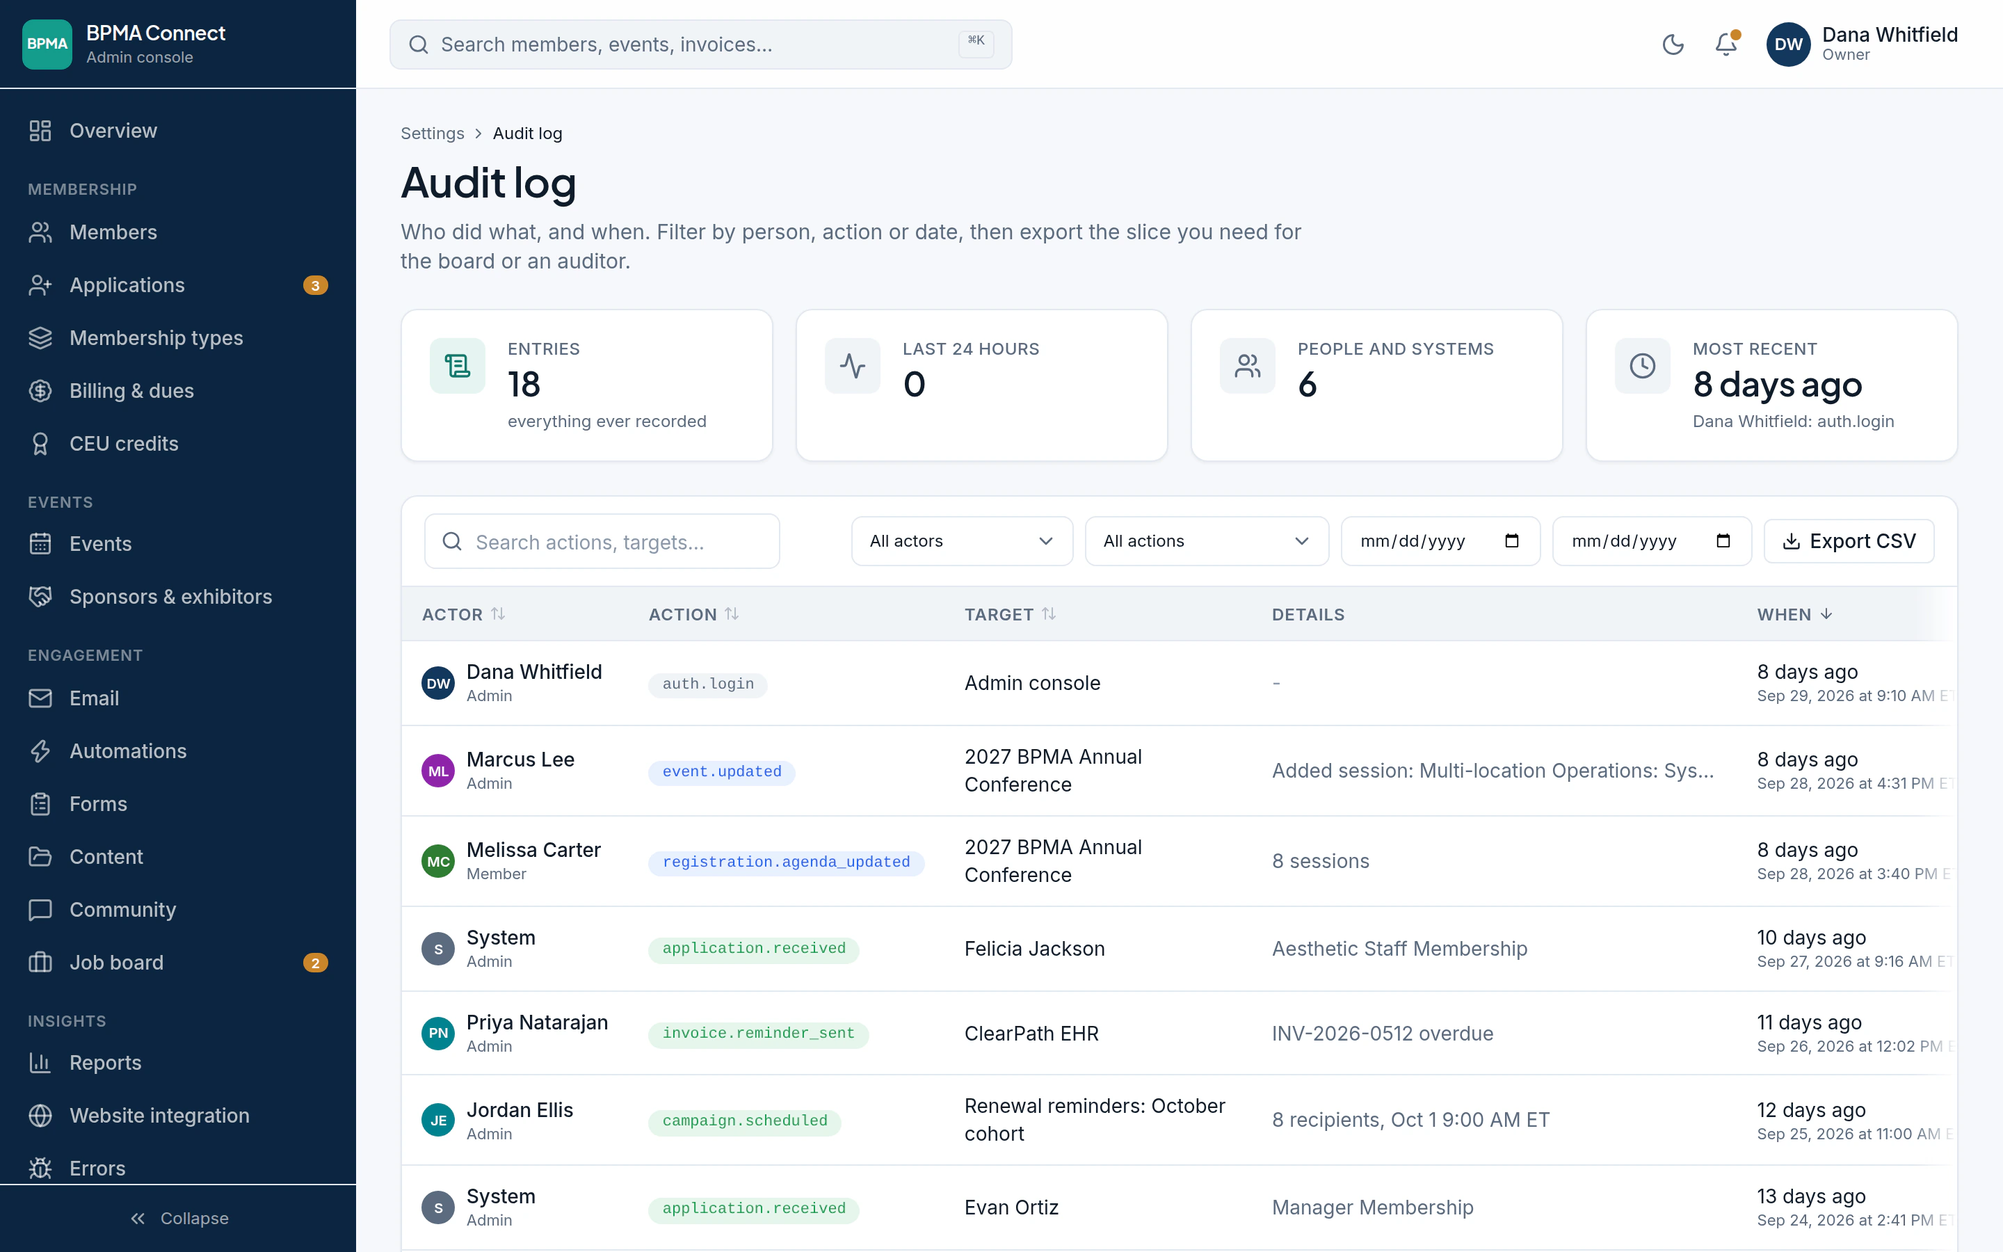
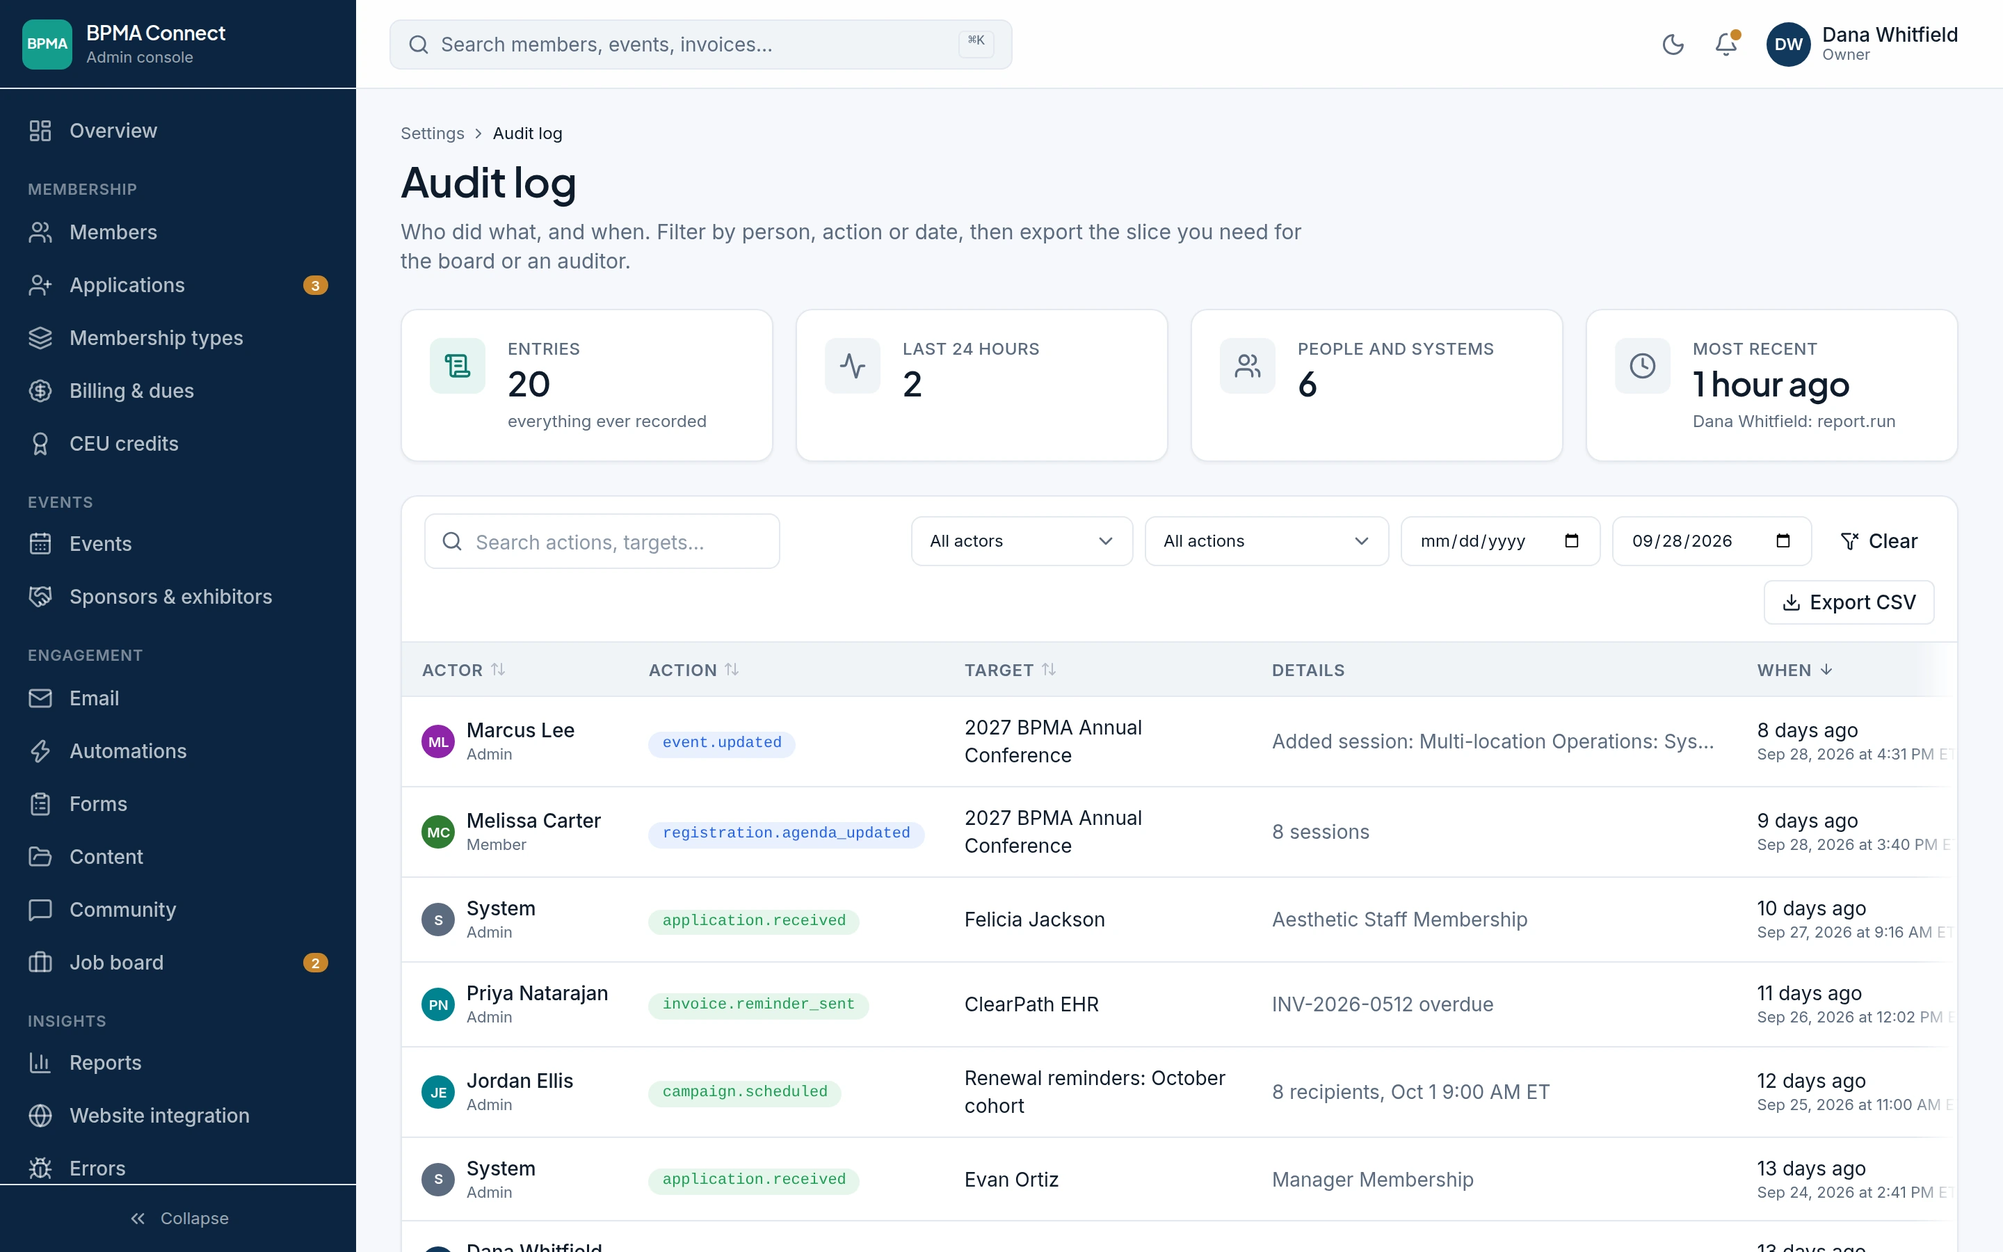
Correct overstated claims and harden the contact form
From a review of the copy against the MemberCove source:
- The portal keeps its built-in colors and emails use a fixed navy, so
  the site now says "name and badge" instead of "logo and colors".
- Imports keep join dates but not member numbers; practice memberships
  are a type, not seats; automations start paused; the weekly export
  needs per-client setup; CE credit posts for members; transcripts are
  an export. The copy now says what the product does.
- The audit log screenshot no longer shows a sign-in entry, which only
  the demo data has.

Contact form and page fixes:
- Rate limit IPv6 visitors by their /64, like the app does.
- Cap the body at 32 KB while reading it, not only by Content-Length.
- Accept ASCII email addresses only, since they go into Reply-To raw.
- Keep the menu button once the page script has run, even when the
  head script's fallback has already removed the js class, and run the
  head script before any stylesheet.
- Marigold focus rings on the dark tab tracks; the open mobile menu
  scrolls on short screens.

Claude-Session: https://claude.ai/code/session_013S9a6q8Yua5fXAPEDFStMb

diff --git a/src/worker/contact.ts b/src/worker/contact.ts
@@ -49,6 +49,8 @@ export interface ContactDeps {
 }
 
 const EMAIL_PATTERN = /^[^\s@<>()[\]\\,;:"]+@[^\s@<>()[\]\\,;:"]+\.[^\s@<>()[\]\\,;:"]+$/;
+/** Printable ASCII only: the address goes into the Reply-To header as it is. */
+const ASCII = /^[\x21-\x7e]+$/;
 
 /** One line of text: trimmed, inner whitespace (including any line breaks) collapsed to one space. */
 function singleLine(value: unknown): string {
@@ -77,7 +79,7 @@ export function parseContact(fields: Record<string, unknown>): ParseResult {
   if (!value.name) errors.name = "Please enter your name.";
   else if (value.name.length > LIMITS.name) errors.name = `Please keep your name under ${LIMITS.name} characters.`;
 
-  if (!value.email || value.email.length > LIMITS.email || !EMAIL_PATTERN.test(value.email)) {
+  if (!value.email || value.email.length > LIMITS.email || !ASCII.test(value.email) || !EMAIL_PATTERN.test(value.email)) {
     errors.email = "Please enter a valid email address.";
   }
 
@@ -199,6 +201,27 @@ export function buildContactEmail(
 
 // ---- The request handler ------------------------------------------------------------------------
 
+/**
+ * What the rate limit counts a visitor by: an IPv4 address as it is, an IPv6 address by its /64,
+ * since one home or server is usually given a whole /64 and could otherwise rotate addresses.
+ * (The same rule as ipRateKey in the MemberCove app.)
+ */
+export function rateKey(ip: string | null): string {
+  if (!ip) return "unknown";
+  const raw = ip.trim().split("%")[0]!.toLowerCase();
+  if (!raw.includes(":")) return raw;
+  if (raw.includes(".")) return raw.slice(raw.lastIndexOf(":") + 1); // IPv4-mapped, ::ffff:203.0.113.9
+  const [head, tail] = raw.includes("::") ? raw.split("::", 2) : [raw, undefined];
+  const h = head ? head.split(":") : [];
+  const t = tail ? tail.split(":") : [];
+  const groups = tail === undefined ? h : [...h, ...Array<string>(Math.max(0, 8 - h.length - t.length)).fill("0"), ...t];
+  if (groups.length < 4) return raw;
+  return `${groups
+    .slice(0, 4)
+    .map((g) => (parseInt(g, 16) || 0).toString(16))
+    .join(":")}::/64`;
+}
+
 const TURNSTILE_VERIFY = "https://challenges.cloudflare.com/turnstile/v0/siteverify";
 
 async function verifyTurnstile(deps: ContactDeps, token: string, ip: string | null): Promise<boolean> {
@@ -236,23 +259,48 @@ function htmlProblem(message: string, status: number, fallbackEmail: string): Re
   return new Response(page, { status, headers: { ...BASE_HEADERS, "content-type": "text/html; charset=utf-8" } });
 }
 
-async function readFields(request: Request): Promise<Record<string, unknown> | null> {
-  const type = request.headers.get("content-type") ?? "";
+/** The request body, or null once it passes `limit` bytes, whatever Content-Length said. */
+async function readCapped(request: Request, limit: number): Promise<Uint8Array | null> {
+  if (!request.body) return new Uint8Array();
+  const reader = request.body.getReader();
+  const chunks: Uint8Array[] = [];
+  let size = 0;
+  for (;;) {
+    const { done, value } = await reader.read();
+    if (done) break;
+    size += value.byteLength;
+    if (size > limit) {
+      await reader.cancel().catch(() => {});
+      return null;
+    }
+    chunks.push(value);
+  }
+  const body = new Uint8Array(size);
+  let offset = 0;
+  for (const chunk of chunks) {
+    body.set(chunk, offset);
+    offset += chunk.byteLength;
+  }
+  return body;
+}
+
+/** The form's fields from a JSON, URL-encoded or multipart body; null when it can't be read. */
+async function parseFields(body: Uint8Array, type: string): Promise<Record<string, unknown> | null> {
   try {
     if (type.includes("application/json")) {
-      const data = await request.json();
+      const data: unknown = JSON.parse(new TextDecoder().decode(body));
       return data && typeof data === "object" && !Array.isArray(data) ? (data as Record<string, unknown>) : null;
     }
-    if (type.includes("application/x-www-form-urlencoded") || type.includes("multipart/form-data")) {
-      const form = await request.formData();
-      const fields: Record<string, unknown> = {};
-      for (const [key, value] of form.entries()) if (typeof value === "string") fields[key] = value;
-      return fields;
-    }
+    let form: URLSearchParams | FormData;
+    if (type.includes("application/x-www-form-urlencoded")) form = new URLSearchParams(new TextDecoder().decode(body));
+    else if (type.includes("multipart/form-data")) form = await new Response(body, { headers: { "content-type": type } }).formData();
+    else return null;
+    const fields: Record<string, unknown> = {};
+    for (const [key, value] of form.entries()) if (typeof value === "string") fields[key] = value;
+    return fields;
   } catch {
     return null;
   }
-  return null;
 }
 
 export async function handleContact(request: Request, deps: ContactDeps): Promise<Response> {
@@ -268,16 +316,19 @@ export async function handleContact(request: Request, deps: ContactDeps): Promis
   const origin = request.headers.get("origin");
   if (origin && origin !== new URL(request.url).origin) return problem("This form only accepts messages sent from the MemberCove website.", 403);
 
+  // Refuse early when the size is declared; readCapped also stops a body that doesn't declare it.
   const length = Number(request.headers.get("content-length") ?? "0");
   if (length > LIMITS.body) return problem("That message is too long to send.", 413);
 
   const ip = request.headers.get("cf-connecting-ip");
   if (deps.limiter) {
-    const { success } = await deps.limiter.limit({ key: ip ?? "unknown" });
+    const { success } = await deps.limiter.limit({ key: rateKey(ip) });
     if (!success) return problem("Too many messages have come from your connection. Please wait a minute and try again.", 429, {}, { "retry-after": "60" });
   }
 
-  const fields = await readFields(request);
+  const body = await readCapped(request, LIMITS.body);
+  if (!body) return problem("That message is too long to send.", 413);
+  const fields = await parseFields(body, request.headers.get("content-type") ?? "");
   if (!fields) return problem("We couldn't read the form. Please try again.", 400);
 
   const parsed = parseContact(fields);

diff --git a/tests/unit/contact.test.ts b/tests/unit/contact.test.ts
@@ -1,5 +1,5 @@
 import { describe, expect, it, vi } from "vitest";
-import { buildContactEmail, encodeHeaderText, handleContact, parseContact, parseMailbox, type ContactDeps } from "../../src/worker/contact";
+import { buildContactEmail, encodeHeaderText, handleContact, parseContact, parseMailbox, rateKey, type ContactDeps } from "../../src/worker/contact";
 
 const valid = {
   name: "Dana Whitfield",
@@ -55,6 +55,11 @@ describe("parseContact", () => {
 
   it("refuses an email address carrying a header", () => {
     expect(parseContact({ ...valid, email: "a@b.co\r\nBcc: c@d.co" }).ok).toBe(false);
+  });
+
+  it("refuses addresses that aren't plain ASCII, which would go raw into Reply-To", () => {
+    expect(parseContact({ ...valid, email: "zoë@example.com" }).ok).toBe(false);
+    expect(parseContact({ ...valid, email: "dana@exämple.com" }).ok).toBe(false);
   });
 
   it("marks a filled honeypot as a bot", () => {
@@ -141,6 +146,27 @@ describe("buildContactEmail", () => {
   });
 });
 
+describe("rateKey", () => {
+  it("counts IPv4 addresses one by one", () => {
+    expect(rateKey("203.0.113.9")).toBe("203.0.113.9");
+  });
+
+  it("counts IPv6 addresses by their /64", () => {
+    const a = rateKey("2001:db8:1234:5678:1:2:3:4");
+    expect(a).toBe("2001:db8:1234:5678::/64");
+    expect(rateKey("2001:db8:1234:5678:ffff::1")).toBe(a);
+    expect(rateKey("2001:DB8:1234:5678::abcd")).toBe(a);
+    expect(rateKey("2001:db8:1234:5679::1")).not.toBe(a);
+  });
+
+  it("handles short forms, zones and IPv4-mapped addresses", () => {
+    expect(rateKey("2001:db8::1")).toBe("2001:db8:0:0::/64");
+    expect(rateKey("fe80::1%eth0")).toBe("fe80:0:0:0::/64");
+    expect(rateKey("::ffff:203.0.113.9")).toBe("203.0.113.9");
+    expect(rateKey(null)).toBe("unknown");
+  });
+});
+
 describe("handleContact", () => {
   const url = "https://membercove.com/api/contact";
 
@@ -205,6 +231,43 @@ describe("handleContact", () => {
     const { deps: d } = deps();
     const res = await handleContact(post(valid, { json: true, headers: { "content-length": "999999" } }), d);
     expect(res.status).toBe(413);
+  });
+
+  it("refuses an oversized body that doesn't declare its length", async () => {
+    const { send, deps: d } = deps();
+    const big = new TextEncoder().encode(`name=A&email=a%40b.co&association=C&message=${"x".repeat(200_000)}`);
+    const stream = new ReadableStream<Uint8Array>({
+      start(controller) {
+        for (let i = 0; i < big.length; i += 16_384) controller.enqueue(big.subarray(i, i + 16_384));
+        controller.close();
+      },
+    });
+    const request = new Request(url, {
+      method: "POST",
+      headers: { origin: "https://membercove.com", "content-type": "application/x-www-form-urlencoded" },
+      body: stream,
+      duplex: "half",
+    } as RequestInit);
+    expect(request.headers.get("content-length")).toBeNull();
+    const res = await handleContact(request, d);
+    expect(res.status).toBe(413);
+    expect(send).not.toHaveBeenCalled();
+  });
+
+  it("reads multipart form posts", async () => {
+    const { send, deps: d } = deps();
+    const form = new FormData();
+    for (const [key, value] of Object.entries(valid)) form.append(key, value);
+    const res = await handleContact(new Request(url, { method: "POST", headers: { origin: "https://membercove.com", accept: "application/json" }, body: form }), d);
+    expect(res.status).toBe(200);
+    expect(send).toHaveBeenCalledOnce();
+  });
+
+  it("counts IPv6 visitors by their /64 for the rate limit", async () => {
+    const limit = vi.fn(async () => ({ success: true }));
+    const { deps: d } = deps({ limiter: { limit } });
+    await handleContact(post(valid, { json: true, headers: { "cf-connecting-ip": "2001:db8:1:2:aaaa::9" } }), d);
+    expect(limit).toHaveBeenCalledWith({ key: "2001:db8:1:2::/64" });
   });
 
   it("returns field errors as JSON", async () => {

diff --git a/src/data/faq.ts b/src/data/faq.ts
@@ -21,11 +21,11 @@ export const HOME_FAQ: FaqGroup[] = [
       },
       {
         q: "Can we bring our members over from another system?",
-        a: "Yes. Export your members to a CSV file and the import wizard shows how it will read each column before anything is saved. Members already on file are matched by email address and updated, and their member numbers and join dates carry over.",
+        a: "Yes. Export your members to a CSV file and the import wizard shows how it will read each column before anything is saved. Members already on file are matched by email address and updated, and join dates carry over.",
       },
       {
         q: "Does MemberCove replace our website?",
-        a: "No, your website stays where it is. The member portal runs on its own address, such as members.yourassociation.org, and your site can show your events and join form through embeds or the JSON API.",
+        a: "No, your website stays where it is. The member portal has a web address of its own, and your site can show your events and join form through embeds or the JSON API.",
       },
       {
         q: "How do members sign in?",
@@ -43,7 +43,7 @@ export const HOME_FAQ: FaqGroup[] = [
       },
       {
         q: "Can renewals run on their own?",
-        a: "Yes. Reminders go out on a schedule before each membership expires, auto-renew charges a saved card, and a grace period gives late payers time before a membership lapses. Members who do lapse get a win-back series.",
+        a: "Yes. Reminders go out on a schedule before each membership expires, auto-renew charges a saved card, and a grace period gives late payers time before a membership lapses. You can also set up a win-back series for members who lapse.",
       },
       {
         q: "Can events have member and non-member prices?",
@@ -61,7 +61,7 @@ export const HOME_FAQ: FaqGroup[] = [
     items: [
       {
         q: "Is our data kept apart from other associations?",
-        a: "Yes. Each association gets its own copy of MemberCove on Cloudflare, with its own database and file storage. Nothing is shared between associations.",
+        a: "Yes. Each association gets its own copy of MemberCove on Cloudflare, with its own database and file storage. No data is shared between associations.",
       },
       {
         q: "Do you store card numbers?",
@@ -69,7 +69,7 @@ export const HOME_FAQ: FaqGroup[] = [
       },
       {
         q: "What if something is deleted by mistake?",
-        a: "The database can be restored to any minute in the last 30 days, and a full copy is exported every week.",
+        a: "The database can be restored to any minute in the last 30 days.",
       },
       {
         q: "Can we get our data out?",

diff --git a/tests/e2e/site.spec.ts b/tests/e2e/site.spec.ts
@@ -117,6 +117,32 @@ test.describe("navigation", () => {
     await expect(page).toHaveURL(/\/pricing\/$/);
   });
 
+  test("the menu button still appears when the page script is slow", async ({ page, isMobile }) => {
+    test.skip(!isMobile, "The menu button only shows on small screens");
+    await watch(page);
+    // A slow stylesheet holds the page script back past the head script's 2.5 second fallback,
+    // which takes the js class off again before the page script adds js-ready.
+    await page.route(/\/_astro\/.*\.css$/, async (route) => {
+      await new Promise((resolve) => setTimeout(resolve, 3500));
+      await route.continue();
+    });
+    await page.goto("/", { waitUntil: "commit" });
+    await expect(page.locator("html")).toHaveClass(/js-ready/, { timeout: 10_000 });
+    expect(await page.evaluate(() => document.documentElement.classList.contains("js"))).toBe(false);
+    await expect(page.getByRole("button", { name: "Open menu" })).toBeVisible();
+  });
+
+  test("the open menu scrolls on a short screen", async ({ page, isMobile }) => {
+    test.skip(!isMobile, "The menu button only shows on small screens");
+    await watch(page);
+    await page.setViewportSize({ width: 320, height: 256 });
+    await page.goto("/");
+    await page.getByRole("button", { name: "Open menu" }).click();
+    const last = page.locator("#mobile-menu").getByRole("link", { name: "Book a demo" });
+    await last.focus();
+    await expect(last).toBeInViewport();
+  });
+
   test("the desktop links mark the current page", async ({ page, isMobile }) => {
     test.skip(isMobile, "The links are in the menu on small screens");
     await watch(page);
@@ -142,6 +168,19 @@ test.describe("home page interactions", () => {
     await expect(tablist.getByRole("tab", { name: "Email" })).toBeFocused();
     await expect(tablist.getByRole("tab", { name: "Email" })).toHaveAttribute("aria-selected", "true");
     await expect(page.locator("#closer-panel-email")).toBeVisible();
+  });
+
+  test("a focused tab shows a marigold focus ring", async ({ page }) => {
+    await watch(page);
+    await page.goto("/");
+    const tab = page.getByRole("tablist", { name: "Busy times of year" }).getByRole("tab", { name: "Renewals" });
+    await tab.scrollIntoViewIfNeeded();
+    await tab.focus();
+    await page.keyboard.press("ArrowRight");
+    const focused = page.getByRole("tablist", { name: "Busy times of year" }).getByRole("tab", { name: "Events" });
+    await expect(focused).toBeFocused();
+    const outline = await focused.evaluate((el) => getComputedStyle(el).outlineColor);
+    expect(outline).toBe("rgb(242, 202, 75)");
   });
 
   test("FAQ answers open and the topic tabs switch", async ({ page }) => {

diff --git a/src/data/pricing.ts b/src/data/pricing.ts
@@ -30,10 +30,6 @@ export const PRICING = {
       a: "Payments go into your association's own Stripe account, and Stripe charges its fees there, the same as if you used Stripe on its own.",
     },
     {
-      q: "Do members pay anything to use the portal?",
-      a: "No. Members pay only what your association charges them, such as dues and event tickets.",
-    },
-    {
       q: "Can we see it before we decide?",
       a: "Yes. Book a demo and we'll walk you through MemberCove with a sample association's members, events and emails.",
     },

diff --git a/src/scripts/contact-form.ts b/src/scripts/contact-form.ts
@@ -66,7 +66,7 @@ if (form) {
   const check = (): Errors => {
     const errors: Errors = {};
     if (!value("name")) errors.name = "Please enter your name.";
-    if (!EMAIL_PATTERN.test(value("email"))) errors.email = "Please enter a valid email address.";
+    if (!/^[\x21-\x7e]+$/.test(value("email")) || !EMAIL_PATTERN.test(value("email"))) errors.email = "Please enter a valid email address.";
     if (!value("association")) errors.association = "Please tell us your association's name.";
     return errors;
   };

diff --git a/README.md b/README.md
@@ -51,7 +51,7 @@ Messages are sent with Cloudflare Email Sending through the `EMAIL` binding, fro
 
 Before launch, make sure `hello@membercove.com` exists and receives mail. If sending ever fails, visitors are told and given that address to write to directly, and the Worker logs `contact.send_failed` (Workers Logs are turned on).
 
-The form has a hidden field that catches most bots, and each IP address can send five messages a minute (`CONTACT_LIMITER`, rate limit namespace `2001`; the app's limiters use 1001 to 1004).
+The form has a hidden field that catches simple bots, and each IP address can send five messages a minute (an IPv6 address counts by its /64, as in the app). The limiter is `CONTACT_LIMITER`, rate limit namespace `2001`; the app's limiters use 1001 to 1004. Bodies over 32 KB are refused. Turning on Turnstile (below) before launch is worth it: without it, a determined script can still send messages from many addresses.
 
 ### Turnstile (optional)
 
